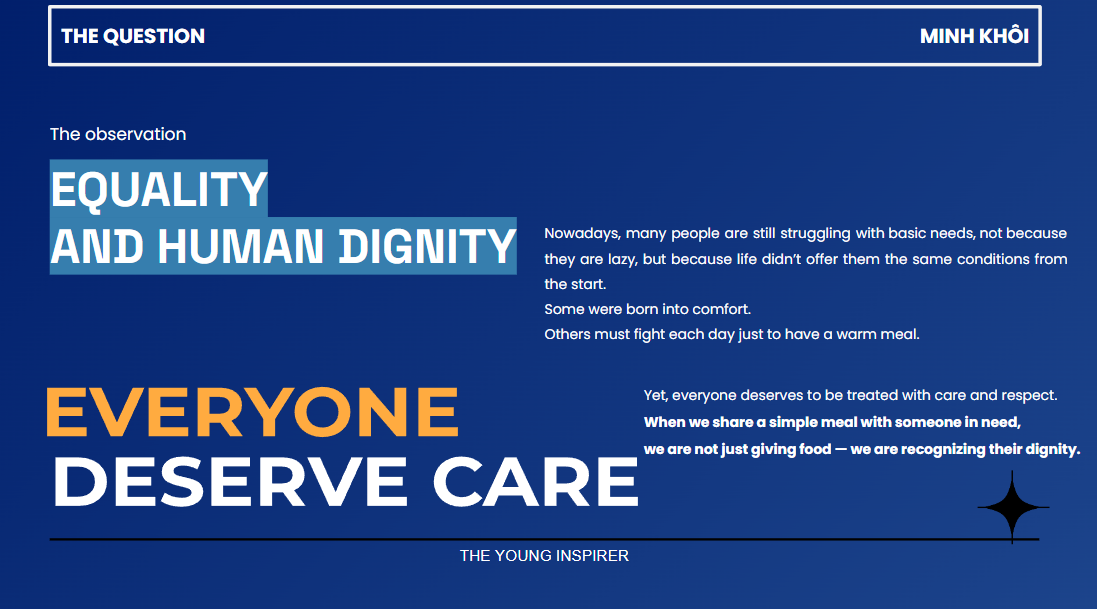
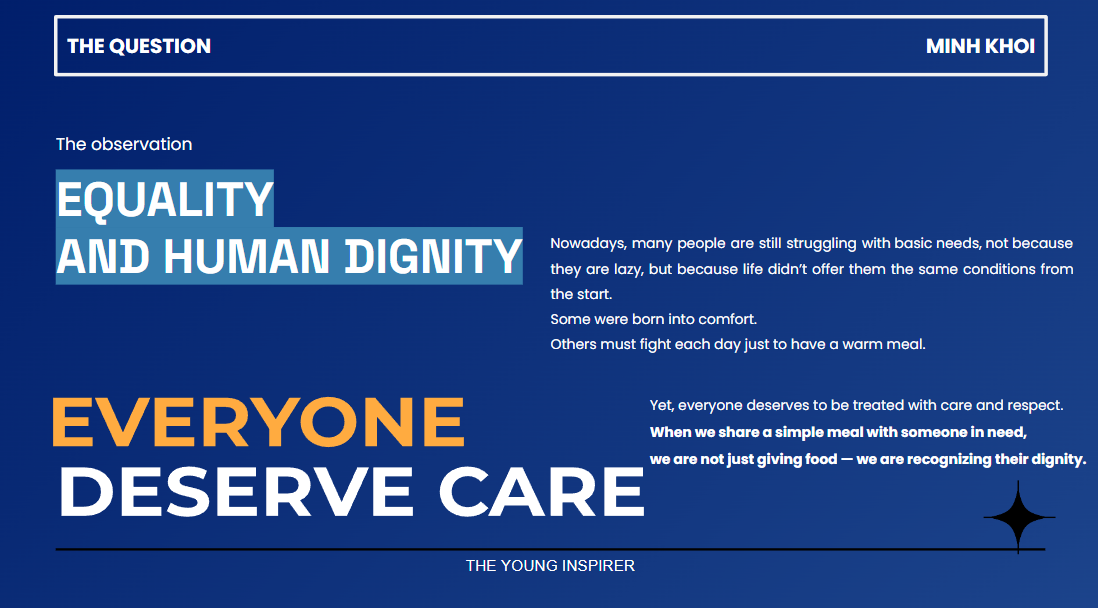
update37

Changed region(s): [[0.031, 0.625, 0.9918, 0.9375], [0.031, 0.1875, 0.9918, 0.5938], [0.031, 0.0, 0.9608, 0.125]]

diff --git a/components/dashboard/section1.js b/components/dashboard/section1.js
@@ -1,31 +1,20 @@
 import Image from "next/image";
 import Navbar from "../Navbar/Navbar";
-import pic1 from "@/public/img/dashboard/section1.png";
+import pic1 from "@/public/img/dashboard/back1.png";
 
 export default function Section1() {
   return (
     <section
       id="section-1"
-      className={`snap-start snap-always h-screen bg-[url(/img/dashboard/back.jpeg)] bg-cover `}
+      className={`snap-start snap-always h-screen bg-[url(/img/dashboard/back1.png)] bg-cover `}
     >
       <div className="h-screen flex flex-col transition-all">
         <Navbar />
         <div className="h-full flex max-md:flex-col items-center relative overflow-hidden">
           <div className="flex flex-col justify-between h-full text-white md:pl-20 max-md:text-center md:py-20">
             <div></div>
-            <div className="text-3xl sm:text-5xl font-semibold  bg-gradient-to-r from-blue-700 to-blue-400 inline-block text-transparent bg-clip-text">
-              My life is full of drafts
-              <br /> But is life truly all
-              <br /> about COMPLETED
-              <br />
-              FINISHED?
-            </div>
-            <div className="text-xl">
-              Is there any beauty in being unfinished?
-            </div>
           </div>
           <div className="md:max-w-[836px] w-full h-full relative md:absolute md:-right-[250px] lg:right-20">
-            <Image src={pic1} layout="fill" objectFit="contain" alt="pic1" />\
           </div>
         </div>
       </div>

diff --git a/components/Navbar/Navbar.js b/components/Navbar/Navbar.js
@@ -34,7 +34,7 @@ export default function Navbar({ color = "light" }) {
         className={`flex justify-between items-center p-5 xl:px-24`}
         style={{ backgroundColor: isDark ? "transparent" : "#fff" }}
       >
-        <p className="text-2xl font-semibold text-blue-500">MINH KHÔI</p>
+        <p className="text-2xl font-semibold text-blue-500">MINH KHOI</p>
 
         <div className="lg:hidden">
           <Dialog>
@@ -75,7 +75,6 @@ export default function Navbar({ color = "light" }) {
         </ul>
       </nav>
 
-      {/* ✅ Nút Home cuộn lên đầu trang hiện tại */}
       <button
         onClick={handleHomeClick}
         className="fixed bottom-4 right-4 z-50 bg-blue-600 text-white p-4 rounded-full shadow-lg hover:bg-blue-700 transition-all"

diff --git a/components/dashboard/section7.js b/components/dashboard/section7.js
@@ -26,7 +26,7 @@ export default function Section7() {
         <div className="flex flex-col text-xl gap-6 max-w-[700px] w-full h-fit rounded-3xl p-8 sm:p-10 backdrop-blur-md border-slate-700 border">
           <div className="flex justify-between items-start">
             <div className="text-blue-500 text-2xl font-semibold">
-              MINH KHÔI
+              MINH KHOI
             </div>
             <Image src={quote} alt="quote" className="w-10 h-10" />
           </div>

diff --git a/app/layout.js b/app/layout.js
@@ -23,7 +23,7 @@ const plusJakartaSans = Plus_Jakarta_Sans({
 // Metadata chuẩn
 export const metadata = {
   title: "MK Portfolio",
-  description: "MINH KHÔI Portfolio",
+  description: "MINH KHOI Portfolio",
 };
 
 export default function RootLayout({ children }) {
